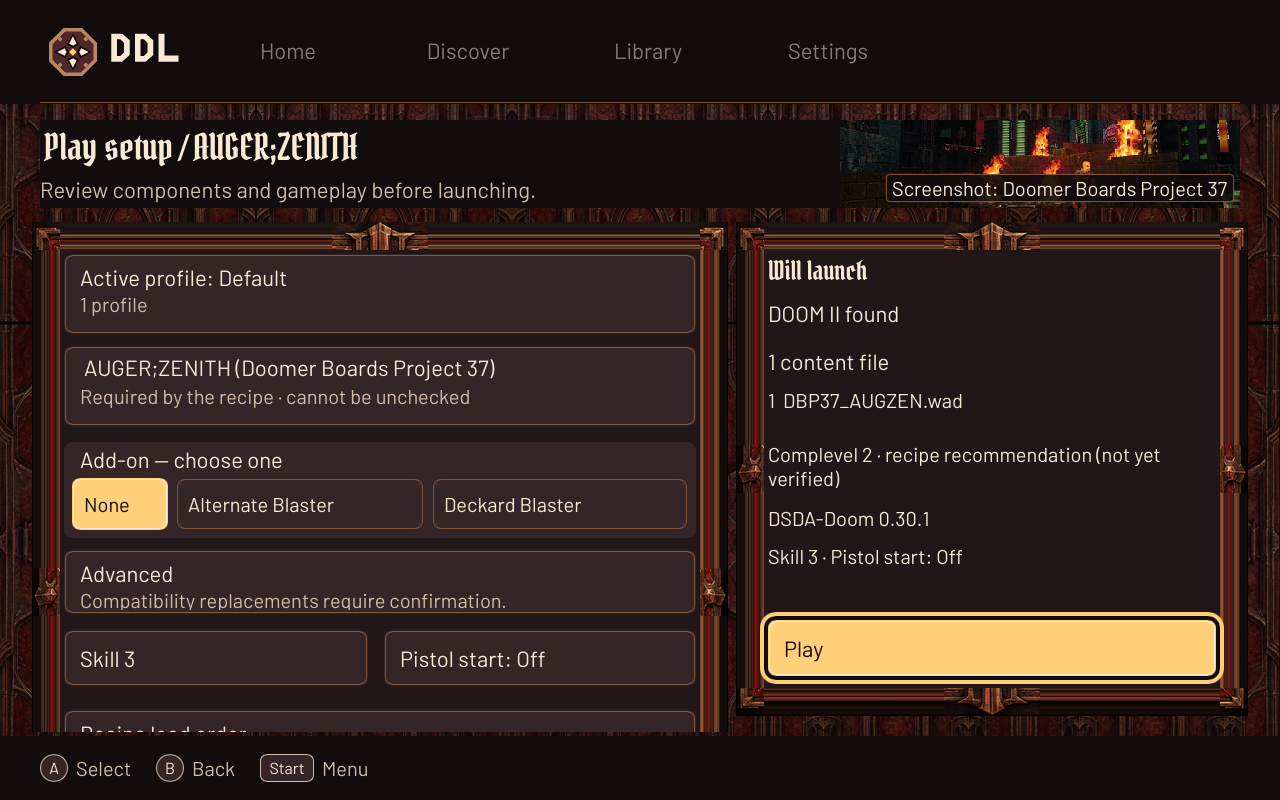
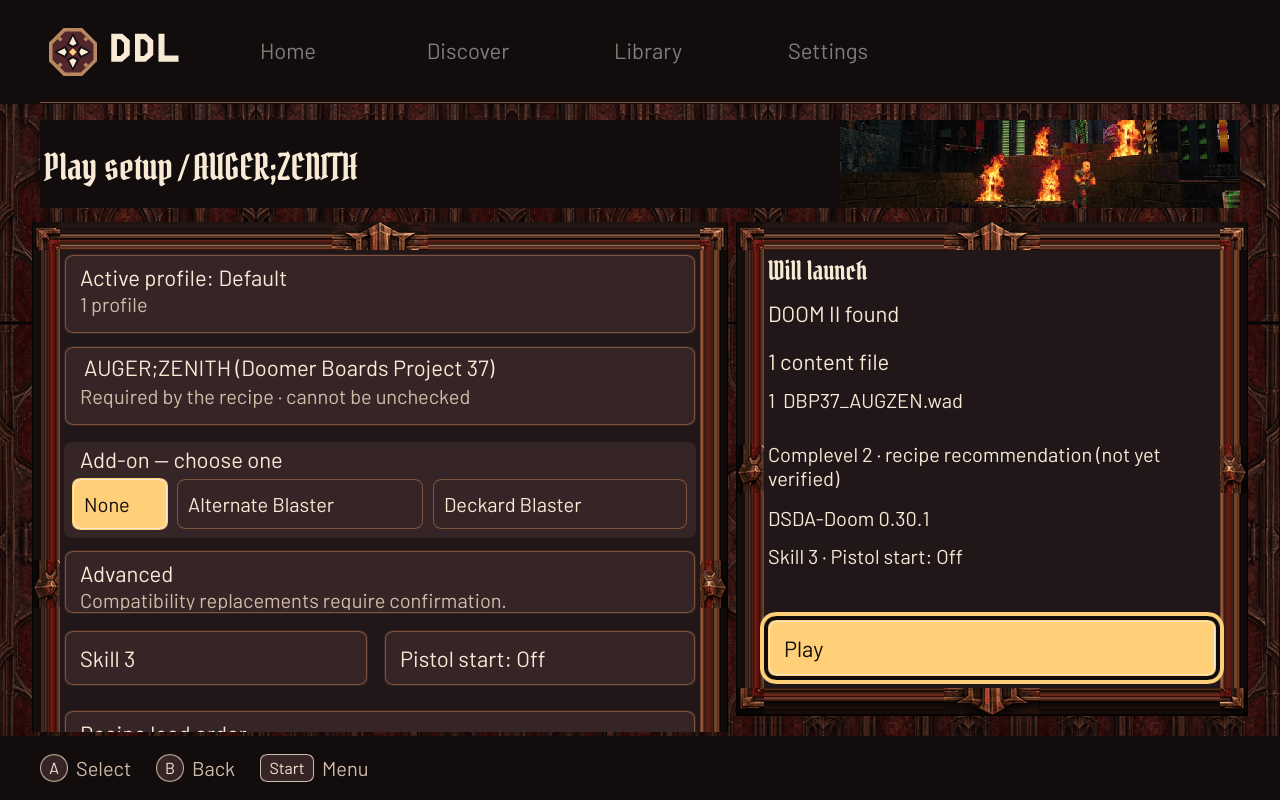
Report spec 033 and refresh README renders

diff --git a/docs/reports/033-plain-headers.md b/docs/reports/033-plain-headers.md
@@ -1,0 +1,133 @@
+# 033 — Plain headers: no decorative subtitles, no caption plates
+
+## Result
+
+Every screen header is now its title alone. A line under a header, card or panel stays only if it
+tells the player a state, a requirement or the next step. The "Screenshot: <credit>" and "Original
+concept art" plates are gone from every image. Credits are plain text: Mapset detail lists
+"Screenshots: <credit>" for that mapset, and About (Settings → Diagnostics / About) lists every
+credit from the bundled `SOURCES.toml` files. Base-game pages no longer say "Original game" at all
+and show home paths with `~`.
+
+What changed, by requirement:
+
+- **R2 — headers.** `app-window.slint`: the `subtitle` property became `status`. With no status the
+  title is centred in the header band (no empty strip under it); with one (playing, busy, loading,
+  scan help, install stage, config error, folder breadcrumb, local-setup help) the title and the
+  line sit where they did. The band, the content origin and spec 030's 20 px Discover margin are
+  untouched, so no content moved. `runtime.rs` / `local_ui.rs` / `shell.rs` set `status` only for the
+  kept lines; the decorative strings and their `wiring_copy::Text` keys are deleted.
+- **R4 — captions.** `ArtCaption`, the `credit` / `full-credit` node fields and the `band-credit`
+  property are deleted. `screenshots::presentation` now returns only the image;
+  `screenshots::recipe_credits` (detail) and `screenshots::all_credits` (About) return the text.
+  `build.rs` reads the `credit = "…"` lines of each `SOURCES.toml` into a generated
+  `SCREENSHOT_CREDITS` list (distinct, recipe-id order), so About follows the bundled files with no
+  second copy to maintain. Detail's lower block was re-spaced by 28 px steps so the new line fits
+  the panel; About's block moved up and its panel grows with the credit text.
+- **R5 — base-game pages.** "Original game" is removed from the page header, the Library card, the
+  label under the art (page and Play setup) and Home's hero (including the "Original game · Steam"
+  line in the readiness panel). Paths on the page, its Play setup and the IWAD copies list go through
+  `tilde()` (`~/.local/share/Steam/…`). The Library base cards shrank from 132 to 84 px now that
+  they hold only the title.
+- **R3 — tone.** `docs/design/ui.md` §2 "Layout and translation" has the rule; the caption paragraph,
+  the Home/Discover/detail contracts were updated to match.
+- **Preview shell (test-only `shell.rs`, `copy.rs`, `strings.slint` `Strings.values`).** The same
+  decorative strings were removed there (enum entries and values together), so nothing removed
+  remains under `crates/ddl/ui/`. `tests/ui_strings.rs` has a new test that fails if any removed
+  text comes back in a `.slint` file.
+
+## A1 — audit of subtitles, taglines and flavour lines
+
+Ids are the Slint property (`WiringStrings` unless noted). "Preview" = the test-only static shell.
+
+| String id | Text | Verdict | Reason |
+| --- | --- | --- | --- |
+| `first-sub` | Prepare the engine and bring your own base games. | remove | Restates the two panels below it. |
+| `home-sub` | Your last profile, ready again. | remove | Tagline; the Continue button says it. |
+| `home-intro` | Build your library and begin a new session. | remove | Slogan. |
+| `discover-sub` | Curated worlds. Choose your next descent. | remove | Flavour. |
+| `library-sub` | Installed worlds, ready for your next session. | remove | Restates the title. |
+| `detail-sub` | Requirements, content and source. | remove | Restates the sections. |
+| `setup-sub` | Review components and gameplay before launching. | remove | Restates the screen. |
+| `settings-sub` | Manage your engine, base games and settings. | remove | Restates the title. |
+| `install-error-sub` | Review the error and choose your next step. | remove | The error panel and Retry already say it. |
+| `home-empty` | Your next mapset starts here | remove | Headline with no state; the 36 px headline is now `no-history`. |
+| `concept-art` | Original concept art | remove | Caption plate (R4). |
+| `screenshot-credit` | Screenshot: {} | replace | Plate removed; now `screenshots-credit` "Screenshots: {}" as plain text (detail, About). |
+| `playing-sub` | DDL will be ready when your session ends. | keep | State. |
+| `working`, `loading`, `cancel-pending` | Checking files… / Checking prerequisites… / Cancelling at the next safe point… | keep | State. |
+| `download-help` | Receiving the archive; checks follow before installation. | keep, shortened | Install state → "Receiving the archive. Checks run before install." |
+| `verify-help` | Checking integrity before these files can be used. | keep, shortened | → "Checking the files before use." |
+| `extract-help` | Unpacking content into a safe staging directory. | keep, shortened | → "Unpacking the files." |
+| `commit-help` | Saving the completed install; cancellation is temporarily unavailable. | keep, shortened | State plus a constraint → "Finishing the install. Cancel is unavailable for now." |
+| `scan-help` | Add a folder containing your legally owned IWADs. Steam libraries are checked automatically. | keep, shortened | Requirement / next step → "Add a folder with your IWADs. Steam libraries are checked automatically." |
+| `pre-check` | Check when you are ready. No update check has run. | keep, shortened | State → "No update check has run." |
+| `order-help` | Recipe-required order is locked. Enabled files are listed under Will launch. | keep, shortened | State → "The recipe's file order is locked." |
+| `first-help` | DDL downloads the official DSDA-Doom engine. It does not include game data. | keep | Requirement. |
+| `no-history`, `no-recent`, `no-favorites-help`, `no-updates`, `no-folders`, `no-games` | empty-state lines | keep | Each names the state or the next step. |
+| `profile-help`, `locked`, `advanced-help`, `pistol-help` | Setup row sublines | keep | Consequence or lock state of the control. |
+| `recipe-saves`, `config-notice`, `config-ready`, `trust`, `verification` | warnings / confidence lines | keep | State; confidence must stay honest (UI contract §1). |
+| `error-*`, `engine-failed`, `update-error`, `unknown-file` | error copy | keep | Each ends with the next step. |
+| `uninstall-*`, `delete-profile-confirm`, `remove-confirm`, `reset-confirm`, `cancel-confirm` | dialog sublines | keep | Scope of a destructive action. |
+| `LocalStrings.badge` as the Detail view's header line | Custom — not verified | remove (header only) | The page body already shows the badge; the header line repeated it. |
+| `LocalStrings.auto` as the Compat view's header line | Auto — DSDA-Doom decides | remove (header only) | Repeats the first option in the list. |
+| `LocalStrings.new-help`, `order-help`, `iwad-help`, `local-help` | local-setup help | keep | Next step / state. |
+| Base-game header line (Base, Play setup, IWAD copies, Profiles) | Original game | remove | Decorative (R5). |
+| Library base card subline | Original game | remove | R5. |
+| Label under the art on the base page and its Play setup | Original game | remove | R5. |
+| Home hero label and readiness-panel line for a base game | Original game · {source} | remove | R5; the source is on the base page. |
+| Preview `HomeTitle` | Pick up where you left off | remove | Tagline used as a heading; the preview now shows "Home". |
+| Preview `HomeSub`, `DiscoverSub`, `LibrarySub`, `SettingsSub`, `DetailSub`, `SetupSub` | Your last profile…; Curated mapsets. Clear requirements…; Installed mapsets, local imports…; Manage your engine, game folders…; Curated recipe · preview preview; Changes are saved to this mapset's profile. | remove | Same family as the production lines. |
+| Preview `Missing`, `PistolHelp`, `LockedOrder` | blocker / option help | keep | State or next step. |
+
+## Acceptance
+
+- **A1:** the table above.
+- **A2:** headless 1280×800 renders inspected after the change (software renderer to PNG, no window):
+  first run, Home (continue, empty, base game), Discover, Library (with Base games), Mapset detail,
+  Play setup (ready, Auger, base game), install progress, install error, Settings (Engine,
+  Diagnostics / About), Playing, the quit dialog and the base IWAD page. No empty band under any
+  title; Discover keeps its 20 px margin. `tests/ui_strings.rs::removed_decorative_copy_does_not_return`
+  asserts none of the removed texts is in `crates/ddl/ui/*.slint`.
+- **A3:** card, Home, Library, detail and band renders show the image with nothing over it;
+  `headless_production.rs` asserts no node label mentions "Screenshot" / "concept art" on cards and
+  that Mapset detail has the node `Screenshots: <credit>` for every catalog recipe, and the
+  painted-cover fallback has no caption either. The About render shows the ten distinct credits.
+  `local_ui_tests.rs` asserts no "Original game" label and a `~/` path on the base page.
+- **A4:** see "Final checks" below. README renders were regenerated with
+  `scripts/readme-screenshots.py` (`docs/screenshots/*.png`, 1280×800).
+
+## Final checks
+
+After merging `main` (through spec 034) into the branch, with the coordinator's go for the single
+full-workspace run: `cargo fmt --all --check` clean; `cargo clippy --workspace --all-targets -- -D
+warnings` clean; `cargo test --workspace` green (ddl 139 unit + 3 + 2 + 2 + 2 + 2 integration,
+ddl-core 398, plus its integration suites). The final-run PNGs were rendered to a scratch directory
+and are not tracked; the four README images in `docs/screenshots/` are tracked and refreshed.
+
+## New dependencies
+
+None.
+
+## Open questions and notes for the coordinator
+
+- **Header band height.** I kept the 88 px band and centred a lone title in it, rather than shrinking
+  the band and moving the content up 32 px. The art band (400×88 on the right) needs the height and
+  every headless test pins content to the current origin. If the owner wants the extra room back on
+  the Deck, shrinking is a contained follow-up (band, viewport constants in `runtime.rs` /
+  `local_ui.rs`, the pixel checks in `headless_production.rs`).
+- **About credits will grow.** The credit text sizes its label and the panel, but About has nothing
+  focusable below it, so a very long list (spec 037 adds many mapsets) would be clipped by the
+  viewport. Today it is ten distinct credits and fits. A follow-up could make the credits a focusable
+  row so the pane scrolls.
+- **"Original game" appears nowhere** (the spec allows once at most). Base games are told apart by
+  the Library "Base games" group and by their title.
+- **Full path.** The `~` form is on the base pages only. The full path stays in Settings → IWAD
+  folders and the folder picker; there is no focus reveal on the base page itself.
+- **Playing.** The header line "DDL will be ready when your session ends." (kept, as the spec's
+  example) sits above the body line and footer that both say "Game running — return here when you
+  exit". Dropping one of those two duplicates would be a small copy follow-up.
+- `crates/ddl/ui/assets/ember/build_assets.py` still mentions the old "Original concept art plaque"
+  in its image-generation prompts. It is under the asset folder owned by spec 035, so I left it.
+- Suggested protected-file notes (not edited): `docs/status.md` / `journal.yml` can record spec 033
+  done; D-024 stays satisfied through the text credits.
